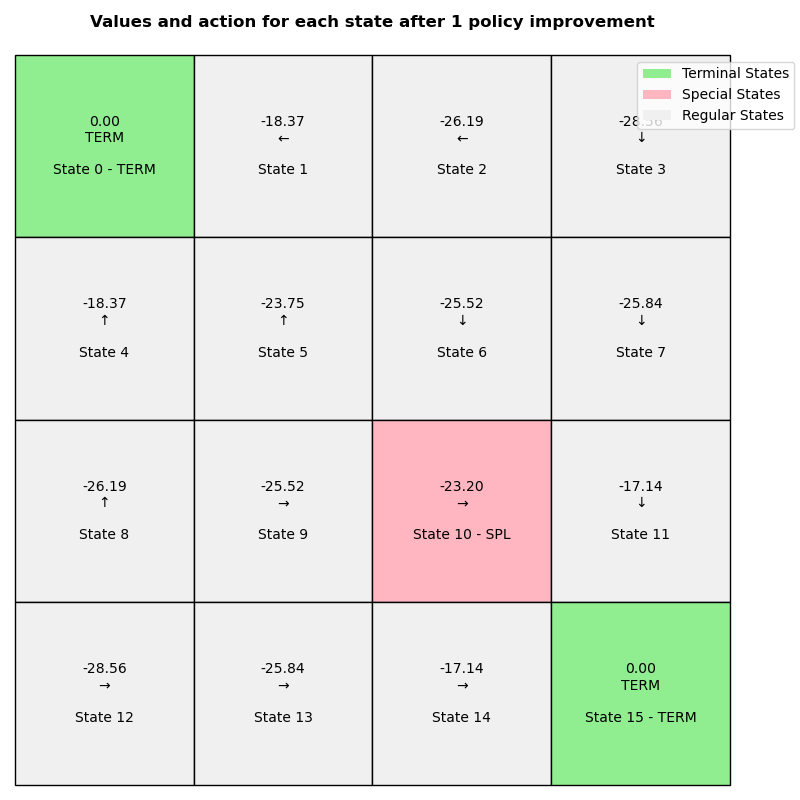
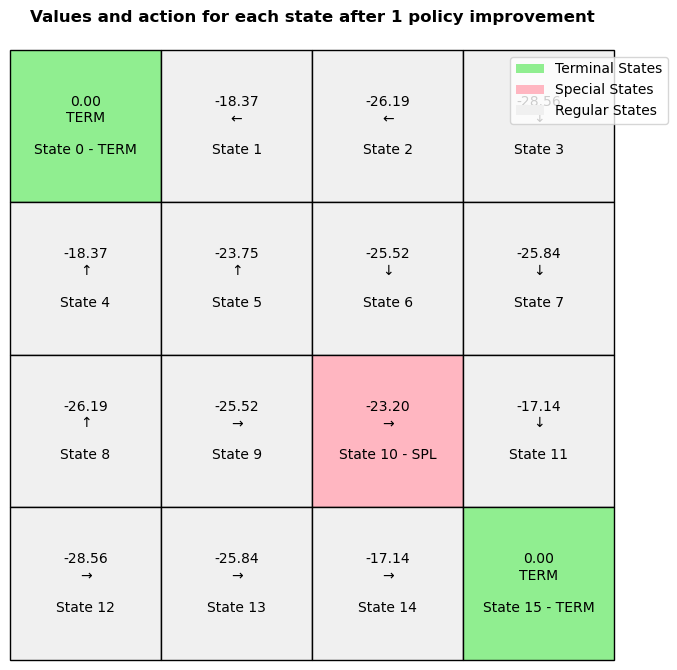
Adjust plot sizes and save settings in assignment1_main.py for improved visualization. Update image paths in assignment1_report.md to ensure correct referencing. Refresh binary images for problem outputs to reflect recent changes.

diff --git a/assignments/assignment1/assignment1_main.py b/assignments/assignment1/assignment1_main.py
@@ -455,7 +455,7 @@ class GridWorld:
             display_grid.append(display_row)
         
         # Create the plot
-        fig, ax = plt.subplots(figsize=(8, 8))
+        fig, ax = plt.subplots(figsize=(6.8, 6.8))
         
         # Create table
         table = ax.table(cellText=display_grid, 
@@ -510,7 +510,7 @@ class GridWorld:
         
         plt.tight_layout()
 
-        plt.savefig(f"images/prob{problem}{count}.png")
+        plt.savefig(f"images/prob{problem}{count}.png", dpi=100, bbox_inches='tight')
         plt.show()
         plt.close()
 
@@ -549,7 +549,7 @@ class GridWorld:
             display_grid.append(display_row)
         
         # Create the plot
-        fig, ax = plt.subplots(figsize=(8, 8))
+        fig, ax = plt.subplots(figsize=(6.8, 6.8))
         
         # Create table
         table = ax.table(cellText=display_grid, 
@@ -621,7 +621,7 @@ class GridWorld:
         ax.legend(handles=legend_elements, loc='upper right', bbox_to_anchor=(1.1, 1))
         
         plt.tight_layout()
-        plt.savefig(f"images/prob{problem}.png")
+        plt.savefig(f"images/prob{problem}.png", dpi=100, bbox_inches='tight')
         plt.show()
         plt.close()
 

diff --git a/assignments/assignment1/assignment1_report.md b/assignments/assignment1/assignment1_report.md
@@ -9,28 +9,46 @@ Course: AI for Multiagent system
 The code is located on Github [https://github.com/supreethms1809/multiagent.git](https://github.com/supreethms1809/multiagent.git).
 
 ```Python
-python assignment1_main.py [-h] [--task {policy_iteration,value_iteration}] \\
-    [--gamma GAMMA] [--epsilon EPSILON] [--max_iterations MAX_ITERATIONS] \\
-    [--grid_size grid_size] [--stepReward STEPREWARD] [--goalReward GOALREWARD] \\
-    [--valueFunctionInit {V,Q}] [--randomValueFunctionInit] [--uniformPolicyInit] \\
-    [--problem {1,2,3,4}] [--plotTable] [--goalStates GOALSTATES] [--splStates SPECIALSTATES] [--splReward SPLREWARD]
+python assignment1_main.py [-h] \\
+    [--task {policy_iteration,value_iteration}] \\
+    [--gamma GAMMA] [--epsilon EPSILON] \\
+    [--max_iterations MAX_ITERATIONS] \\
+    [--grid_size grid_size] [--stepReward STEPREWARD] \\
+    [--goalReward GOALREWARD] \\
+    [--valueFunctionInit {V,Q}] \\
+    [--randomValueFunctionInit] \\
+    [--uniformPolicyInit] \\
+    [--problem {1,2,3,4}] [--plotTable] \\
+    [--goalStates GOALSTATES] \\
+    [--splStates SPECIALSTATES] \\
+    [--splReward SPLREWARD]
 
     options:
     -h, --help            show this help message and exit
     --task {policy_iteration,value_iteration}
     --gamma GAMMA                           Gamma for the value iteration
     --epsilon EPSILON                       Epsilon for the value iteration
-    --max_iterations MAX_ITERATIONS         Maximum number of iterations for the value iteration and policy iteration
+    --max_iterations MAX_ITERATIONS         Maximum number of iterations
+                                            for the value iteration and 
+                                            policy iteration
     --grid_size grid_size                   Size of the grid N
     --stepReward STEPREWARD                 Step reward
     --goalReward GOALREWARD                 Goal reward
-    --valueFunctionInit {V,Q}               Type of value function used V or Q
-    --randomValueFunctionInit               Initialize the value function with random values
-    --uniformPolicyInit                     Initialize the policy with uniform distribution
+    --valueFunctionInit {V,Q}               Type of value function used
+                                            V or Q
+    --randomValueFunctionInit               Initialize the value function 
+                                            with random values
+    --uniformPolicyInit                     Initialize the policy 
+                                            with uniform distribution
     --problem {1,2,3,4}                     Problem number
-    --plotTable                             Plot the value function and policy
-    --goalStates GOALSTATES                 Goal states list. Format list of tuples [(x, y), (x, y), ...]
-    --splStates SPECIALSTATES               Spl states list. Format list of tuples [(x, y), (x, y), ...]
+    --plotTable                             Plot the value function 
+                                            and policy
+    --goalStates GOALSTATES                 Goal states list. Format 
+                                            list of tuples 
+                                            [(x, y), (x, y), ...]
+    --splStates SPECIALSTATES               Spl states list. Format
+                                            list of tuples 
+                                            [(x, y), (x, y), ...]
     --splReward SPLREWARD                   Special state reward 
 ```
 The configurations for the four problems given in the assignment is hardcoded in the source code for convinience.
@@ -89,7 +107,7 @@ We run this update for all states until the values converge (i.e., they stop cha
 
 Once we have an updated value function, we improve the policy by making it greedy with respect to the current value estimates:
 
-$ \pi'(s) = \arg\max_a \sum_{s'} P(s'|s,a)\big[ R(s,a,s') + \gamma V^\pi(s') \big] $
+$\pi'(s) = \arg\max_a \sum_{s'} P(s'|s,a)\big[ R(s,a,s') + \gamma V^\pi(s') \big]$
 
 If the policy changes, we repeat the evaluation and improvement steps. If the policy remains unchanged (i.e., stable), then we have reached convergence.
 
@@ -126,7 +144,7 @@ INFO:__main__:Policy iteration converged successfully
 ```
 
 ### Plot the value of each state after the policy evaluation is complete: Value and action of each state after the policy evaluation is complete 
-![Value and action of each state after the policy evaluation is complete](./images/prob1.png)
+![Value and action of each state after the policy evaluation is complete](images/prob1.png)
 
 
 ## Problem 2 - Policy Iteration
@@ -176,7 +194,7 @@ INFO:__main__:Policy iteration converged successfully
 
 
 ### Plot the value of each state after the policy evaluation is complete: Value and action of each state after the policy evaluation is complete
-![Value and action of each state after the policy evaluation is complete](./images/prob2.png)
+![Value and action of each state after the policy evaluation is complete](images/prob2.png)
 
 
 ## Problem 3 - Policy Iteration
@@ -228,18 +246,18 @@ INFO:__main__:Plotting optimal policy with values and actions
 ```
 ### Plot the comparison of value and optimal action of each state after each policy improvement (similar to the slides). As many plots as the number of policy improvement goes
 ### Value and action of each state after the 1st policy improvement
-![Value and action of each state after the 1st policy improvement](./images/prob31.png)
+![Value and action of each state after the 1st policy improvement](images/prob31.png)
 
 
 ### Value and action of each state after the 2nd policy improvement
-![Value and action of each state after the 2nd policy improvement](./images/prob32.png)
+![Value and action of each state after the 2nd policy improvement](images/prob32.png)
 
 
 ### Value and action of each state after the 3rd policy improvement
-![Value and action of each state after the 3rd policy improvement](./images/prob33.png)
+![Value and action of each state after the 3rd policy improvement](images/prob33.png)
 
 ### Final Optimal policy
-![Final optimal policy](./images/prob3None.png)
+![Final optimal policy](images/prob3None.png)
 
 **Comment:** The states 1, 4, 11, 14 has the value 0 at the end. If the reward for going to the terminal state were to positive in the problem, these states would have some values other than 0. When the value is 0, the agent has no incentive to reach the goal. So, the decision to choose reward is important.
 
@@ -288,9 +306,9 @@ INFO:__main__:Plotting optimal policy with values and actions
 ```
 ### Plot the comparison of value and optimal action of each state after the algorithm is completed (similar to the slides). One plot for value, one plot for policy.
 ### Value after the algorithm is complete
-![Value after the algorithm is complete](./images/prob4.png)
+![Value after the algorithm is complete](images/prob4.png)
 
 
 ### Policy after the algorithm is complete 
-![Policy after the algorithm is complete](./images/prob4None.png)
+![Policy after the algorithm is complete](images/prob4None.png)
 
